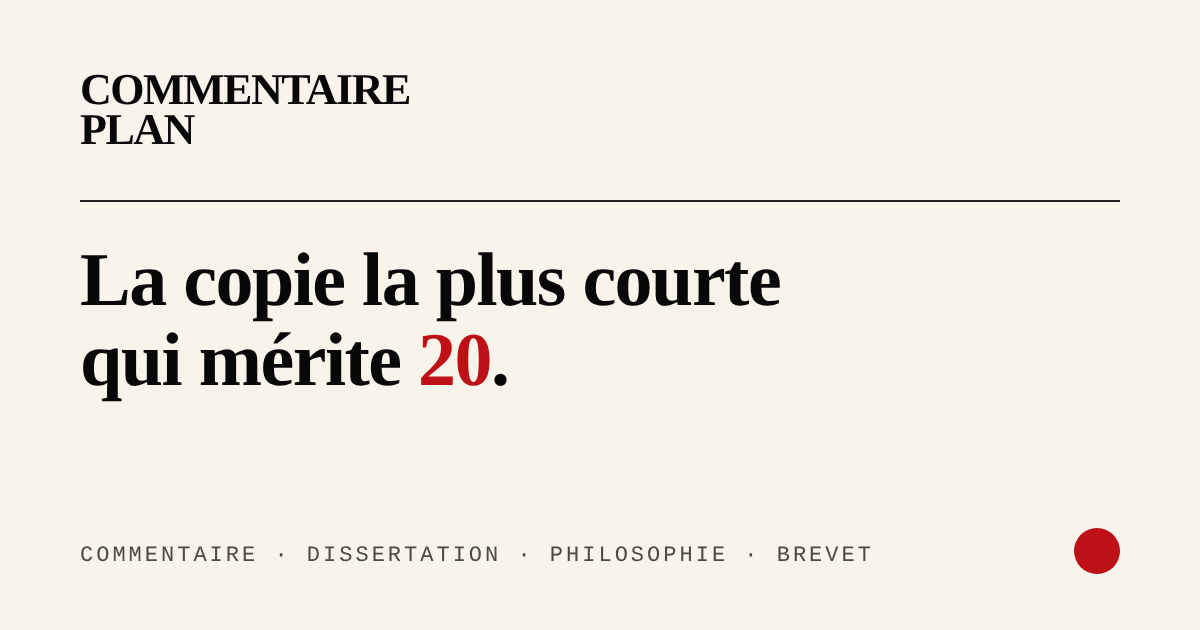
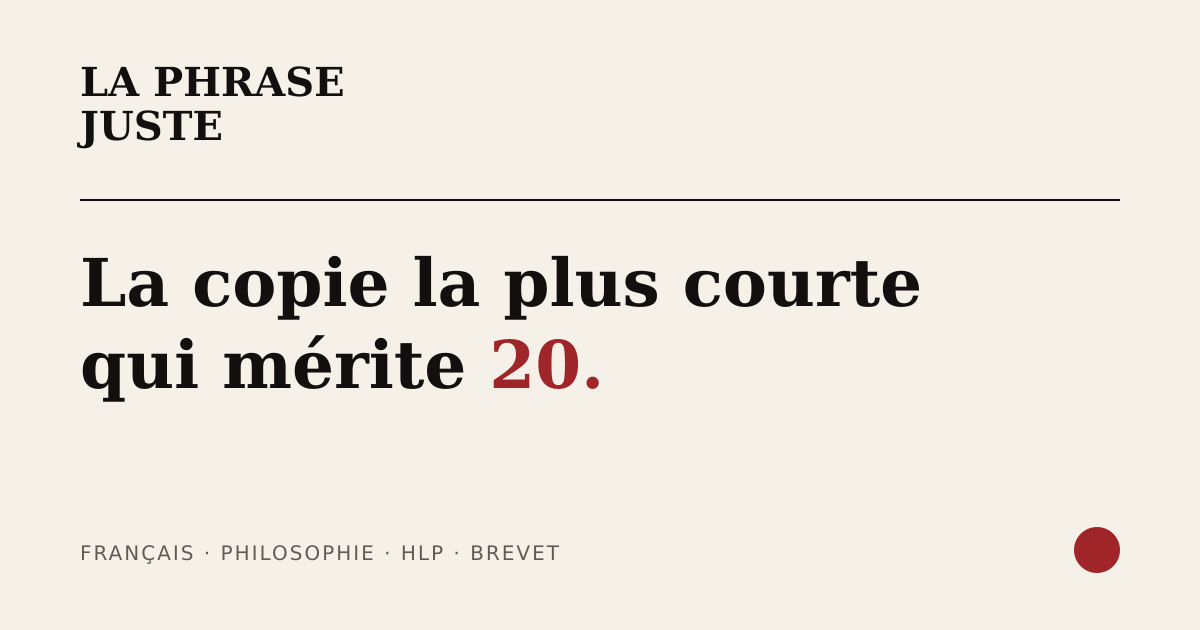
La Phrase juste : nom court, signature d’accueil et clin d’œil cliquable
* Ajouter un clin d’œil philosophique cliquable dans l’en-tête

* Respecter les pages autonomes sans en-tête dans le contrôle visuel

* Classer le clin d’œil sans rubrique scolaire et éviter son préchargement

diff --git a/index.html b/index.html
@@ -3,24 +3,24 @@
 <head>
 <meta charset="utf-8">
 <meta name="viewport" content="width=device-width,initial-scale=1">
-<title>Commentaire Plan : bac de français, philosophie, HLP, brevet</title>
+<title>La Phrase juste : bac de français, philosophie, HLP, brevet</title>
 <meta name="description" content="Méthode du commentaire et de la dissertation, de la problématique au plan : bac de français, philosophie, HLP, brevet. Exercices au clic puis écrits, retours immédiats, copies à 20 commentées.">
 <link rel="canonical" href="https://commentaire-plan.com/">
 <meta property="og:type" content="website">
 <meta property="og:locale" content="fr_FR">
-<meta property="og:site_name" content="Commentaire Plan">
-<meta property="og:title" content="Commentaire Plan : la copie la plus courte qui mérite 20">
+<meta property="og:site_name" content="La Phrase juste">
+<meta property="og:title" content="La Phrase juste : la copie la plus courte qui mérite 20">
 <meta property="og:description" content="Commentaire, dissertation, philosophie, HLP et brevet : essayez sur de vrais sujets, voyez ce qui manque, recommencez. Copies à 20 commentées et sujets corrigés.">
 <meta property="og:url" content="https://commentaire-plan.com/">
 <meta name="twitter:card" content="summary">
 <link rel="stylesheet" href="styles.css">
-<script type="application/ld+json">{"@context":"https://schema.org","@type":"WebSite","name":"Commentaire Plan","url":"https://commentaire-plan.com/","inLanguage":"fr","description":"Entraînement guidé au Bac français, en philosophie Terminale et au Brevet : commentaire, dissertation, oral, langue et rédaction."}</script>
+<script type="application/ld+json">{"@context":"https://schema.org","@type":"WebSite","name":"La Phrase juste","url":"https://commentaire-plan.com/","inLanguage":"fr","description":"Lire, penser, écrire — du brevet au bac : français, philosophie et HLP. Méthodes, exercices et sujets officiels."}</script>
 <script type="speculationrules" data-seo-speculation="1">{"prefetch":[{"where":{"and":[{"href_matches":"/*"},{"not":{"selector_matches":"[download],.no-prefetch"}}]},"eagerness":"moderate"}]}</script>
 </head>
 <body>
 <header class="top" data-seo-static-nav="1">
   <div class="wrap mast mast-v3">
-    <a class="brand brand-v2" href="/">COMMENTAIRE<br>PLAN</a>
+    <a class="brand brand-v2" href="/">LA PHRASE<br>JUSTE</a>
     <nav class="nav-portals" aria-label="Navigation principale">
     <div class="portal-wrap ">
       <a class="portal" href="/bac.html" aria-haspopup="true">
@@ -96,7 +96,8 @@
 <main>
 <section class="funnel-hero wrap home-hero">
   <div class="funnel-copy">
-    <div class="kicker">BAC DE FRANÇAIS · PHILOSOPHIE · HLP · BREVET</div>
+    <p class="home-site-name">La Phrase juste</p>
+    <p class="home-site-tagline">Lire, penser, écrire — du brevet au bac.</p>
     <h1>La copie la plus courte<br>qui mérite 20.</h1>
     <p class="hero-lead">Apprenez à écrire juste, à argumenter et à construire un raisonnement solide. Sur de vrais sujets, vous essayez, vous comprenez ce qui manque, puis vous recommencez jusqu’à savoir le faire seul.</p>
     <div class="funnel-actions">
@@ -209,7 +210,7 @@
   <select name="profil" required><option value="">Choisir</option><option>Élève</option><option>Parent</option><option>Enseignant</option><option>Autre</option></select>
   </label>
   <label>Adresse e-mail<input type="email" name="email" required autocomplete="email" placeholder="vous@exemple.fr"></label>
-  <label class="lead-consent"><input type="checkbox" name="consentement" required> J’accepte de recevoir, au plus une fois par mois, les nouveautés de Commentaire Plan.</label>
+  <label class="lead-consent"><input type="checkbox" name="consentement" required> J’accepte de recevoir, au plus une fois par mois, les nouveautés de La Phrase juste.</label>
   <button class="btn red" type="submit">Être prévenu →</button>
   <p class="micro">Désinscription sur simple demande. Aucune revente d’adresse. <a href="confidentialite.html">Confidentialité</a>.</p>
   </form>

diff --git a/scripts/seo-build.js b/scripts/seo-build.js
@@ -216,7 +216,7 @@ function navigationActive(href, base){
 const portals=navigation.map(([href,label,sub,items])=>portal(file,href,label,sub,items,navigationActive(href,base))).join('');
   return `<header class="top" data-seo-static-nav="1">
   <div class="wrap mast mast-v3">
-    <a class="brand brand-v2" href="/">COMMENTAIRE<br>PLAN</a>
+    <div class="brand-signature"><a class="brand brand-v2" href="/">LA PHRASE<br>JUSTE</a><a class="site-wink no-prefetch" href="/clin-oeil.html" aria-label="Le clin d’œil philosophique du site" title="Une pause métaphysique"><img src="/assets/clin-oeil-heidegger-120.webp" width="42" height="53" alt="" decoding="async"></a></div>
     <nav class="nav-portals" aria-label="Navigation principale">${portals}</nav>
     <button class="mobile-nav-toggle" type="button" aria-expanded="false" aria-controls="mobile-nav">Menu</button>
   </div>
@@ -243,7 +243,7 @@ function crumbSpec(r, title){
   if(r==='index.html') return [];
   const b=path.basename(r);
   const c=[{name:'Accueil',href:'/'}];
-  const SERVICE=/^(offre|apropos|merci|contact|plan-du-site|mentions-legales|cgv|confidentialite|annales|entrainement-annale|eleves|ia-laboratoire)\.html$/;
+  const SERVICE=/^(offre|apropos|merci|contact|plan-du-site|mentions-legales|cgv|confidentialite|annales|entrainement-annale|eleves|ia-laboratoire|clin-oeil)\.html$/;
   if(SERVICE.test(b)) { /* pages de service : pas de rubrique */ }
   else if(/^methode-/.test(b)) { if(b!=='methode-cours.html') c.push({name:'Cours de méthode',href:'/methode-cours.html'}); }
   else if(/^brevet|anthologie-brevet/.test(b)) c.push({name:'Brevet',href:'/brevet.html'});
@@ -329,6 +329,8 @@ for(const file of pages){
   if(!noindex(html) && !/property=["']og:image["']/.test(html)){
     html=html.replace(/<\/head>/i,'<meta property="og:image" content="'+DOMAIN+'/og-image.png"><meta property="og:image:width" content="1200"><meta property="og:image:height" content="630"><meta property="og:image:alt" content="Commentaire Plan : la copie la plus courte qui mérite 20."><meta name="twitter:card" content="summary_large_image">\n</head>');
   }
+  // Le nom de marque reste cohérent dans les sorties de tous les générateurs.
+  html=html.replace(/Commentaire Plan|COMMENTAIRE PLAN/g,'La Phrase juste');
   html=injectBreadcrumbs(html,r);
   if(!/type=["']speculationrules["']/.test(html)){
     const speculation='<script type="speculationrules" data-seo-speculation="1">{"prefetch":[{"where":{"and":[{"href_matches":"/*"},{"not":{"selector_matches":"[download],.no-prefetch"}}]},"eagerness":"moderate"}]}<\/script>';

diff --git a/styles.css b/styles.css
@@ -2659,3 +2659,23 @@ div.qcm-options>p{border:0!important;background:none!important;box-shadow:none!i
 @media(max-width:650px){.library-doors,.home-resources{grid-template-columns:1fr}.library-doors>a,.home-resources>a{padding:22px}}
 
 .portal-wrap:not(.open) .portal-dropdown{opacity:0;visibility:hidden;pointer-events:none}
+
+/* === Clin d’œil philosophique : vignette légère dans la signature du site === */
+.brand-signature{display:flex;align-items:center;gap:12px;min-width:0}
+.site-wink{display:inline-flex;flex:0 0 auto;align-items:center;justify-content:center;border-radius:5px;overflow:hidden;line-height:0;transition:transform .15s ease}
+.site-wink img{display:block;width:42px;height:53px;object-fit:contain}
+.site-wink:hover{transform:rotate(-4deg)}
+.site-wink:focus-visible{outline:3px solid var(--red);outline-offset:4px}
+.wink-page{max-width:760px;padding:40px 0 56px;text-align:center}
+.wink-page h1{font-size:clamp(30px,5vw,48px);line-height:1.12}
+.wink-figure{margin:28px auto;max-width:560px}
+.wink-figure img{display:block;width:100%;height:auto;border-radius:6px}
+.wink-figure figcaption{font-size:16px;line-height:1.6;margin-top:16px;color:var(--muted)}
+.wink-page .wink-back{display:inline-block;border-bottom:1px solid var(--red);padding-bottom:5px;font-size:18px}
+@media(max-width:760px){.brand-signature{gap:9px}.site-wink img{width:35px;height:44px}.wink-page{padding-top:24px}}
+@media(prefers-reduced-motion:reduce){.site-wink{transition:none}.site-wink:hover{transform:none}}
+
+/* === La Phrase juste : nom court dans l’en-tête, signature sur l’accueil === */
+.home-site-name{font:700 25px/1.2 Georgia,'Times New Roman',serif;letter-spacing:-.5px;margin:0 0 8px;color:var(--red)}
+.home-site-tagline{font:17px/1.5 Georgia,'Times New Roman',serif;margin:0 0 24px;max-width:36ch;color:var(--muted)}
+@media(max-width:760px){.home-site-name{font-size:22px}.home-site-tagline{font-size:16px;margin-bottom:20px}}

diff --git a/scripts/build-capture.js b/scripts/build-capture.js
@@ -19,7 +19,7 @@ const block=(file,kick,h2,para=PARA)=>`${START}<section class="offer-band captur
 <p class="hidden-field"><label>Ne pas remplir <input name="bot-field"></label></p>
 <label>Vous êtes <select name="profil" required><option value="">Choisir</option><option>Élève</option><option>Parent</option><option>Enseignant</option><option>Autre</option></select></label>
 <label>Adresse e-mail<input type="email" name="email" required autocomplete="email" placeholder="vous@exemple.fr"></label>
-<label class="lead-consent"><input type="checkbox" name="consentement" required> J’accepte de recevoir, au plus une fois par mois, les nouveautés de Commentaire Plan.</label>
+<label class="lead-consent"><input type="checkbox" name="consentement" required> J’accepte de recevoir, au plus une fois par mois, les nouveautés de La Phrase juste.</label>
 <button class="btn red" type="submit">Être prévenu →</button>
 <p class="micro">Désinscription sur simple demande. Aucune revente d’adresse. <a href="confidentialite.html">Confidentialité</a>. Pendant le lancement, tout le site est ouvert : <a href="offre.html">voir l’offre</a>.</p>
 </form></section>${END}\n`;

diff --git a/clin-oeil.html b/clin-oeil.html
@@ -1,0 +1,12 @@
+<!doctype html>
+<html lang="fr"><head>
+<meta charset="utf-8"><meta name="viewport" content="width=device-width,initial-scale=1">
+<title>Une pause métaphysique | La Phrase juste</title>
+<meta name="description" content="Le clin d’œil philosophique du site : une image à découvrir entre deux exercices.">
+<meta name="robots" content="noindex,follow"><link rel="canonical" href="https://commentaire-plan.com/clin-oeil.html">
+<link rel="stylesheet" href="styles.css">
+</head><body><header class="top"></header>
+<main class="wrap wink-page"><p class="kicker">LE CLIN D’ŒIL</p><h1>Une pause métaphysique.</h1>
+<figure class="wink-figure"><img src="assets/clin-oeil-heidegger.webp" width="1117" height="1408" alt="Une pin-up rétro tient un livre rouge ; le nom Heidegger est inscrit sur sa cuisse."><figcaption>Le petit clin d’œil du professeur.</figcaption></figure>
+<a class="wink-back" href="index.html">Retour à l’accueil →</a></main>
+<script src="site-nav.js"></script></body></html>

diff --git a/site-nav.js b/site-nav.js
@@ -205,7 +205,7 @@ const portals=navigation.map(([href,label,sub,items])=>portal(href,label,sub,ite
 
   if(!header.innerHTML.trim()) header.innerHTML=`
   <div class="wrap mast mast-v3">
-    <a class="brand brand-v2" href="index.html">COMMENTAIRE<br>PLAN</a>
+    <div class="brand-signature"><a class="brand brand-v2" href="index.html">LA PHRASE<br>JUSTE</a><a class="site-wink no-prefetch" href="/clin-oeil.html" aria-label="Le clin d’œil philosophique du site" title="Une pause métaphysique"><img src="/assets/clin-oeil-heidegger-120.webp" width="42" height="53" alt="" decoding="async"></a></div>
     <nav class="nav-portals" aria-label="Navigation principale">
       ${portals}
     </nav>

diff --git a/ICONE-CLIN-OEIL.md b/ICONE-CLIN-OEIL.md
@@ -1,0 +1,15 @@
+# Vignette philosophique — 17 octobre 2026
+
+Demande du propriétaire : intégrer l’image fournie comme petite icône cliquable, pour le plaisir de faire découvrir le site à ses amis. Le propriétaire a ensuite choisi « La Phrase juste » et demandé sa mise en place avec un en-tête court.
+
+La vignette est placée à côté du nom, dans l’en-tête statique et son équivalent JavaScript. Le lien ouvre une page avec l’image entière et un retour à l’accueil. L’image n’est pas retouchée : seules ses dimensions de livraison et son encodage sont adaptés au Web.
+
+La vignette de 120 pixels pèse 4 706 octets ; le grand visuel de 1 117 × 1 408 pixels pèse 104 242 octets. La grande image n’est chargée que sur la page du clin d’œil. Celle-ci porte `noindex,follow` et ne rejoint pas le sitemap. La fonction humoristique est distincte du lien du nom, qui conduit toujours à l’accueil.
+
+Le lien possède un nom accessible, un focus visible et fonctionne sans JavaScript. La vignette conserve l’image entière, sans recadrage. Aucun nouveau script n’est chargé.
+
+Contrôles prévus dans le workflow navigateur : en-tête et menus à 390 et 1280 pixels, vignette chargée, absence de chargement du grand visuel avant le clic, activation au clavier, image entière, retour, captures et parcours sans JavaScript. Le contrôle d’intégration existant vérifie aussi que les six intitulés de navigation ne sont pas tronqués.
+
+Le nom seul, sur deux lignes, figure dans l’en-tête avec la vignette et les menus. La signature « Lire, penser, écrire — du brevet au bac. » figure uniquement sur l’accueil. Les titres précis de chaque page sont conservés, avec le nouveau nom de marque ; le domaine et les URL restent identiques. Le consentement du formulaire et les métadonnées WebSite/Open Graph suivent le nom choisi. Le build harmonise également les pages produites par les autres générateurs. Les contrôles d’en-tête sont étendus à 320 et 1051 pixels, en plus de 390 et 1280 pixels, avec vérification de l’absence de chevauchement.
+
+L’image de partage sociale est exportée depuis `assets/partage-site.svg`, avec le nouveau nom et la signature du site, pour éviter de conserver l’ancienne marque sur les liens partagés.
